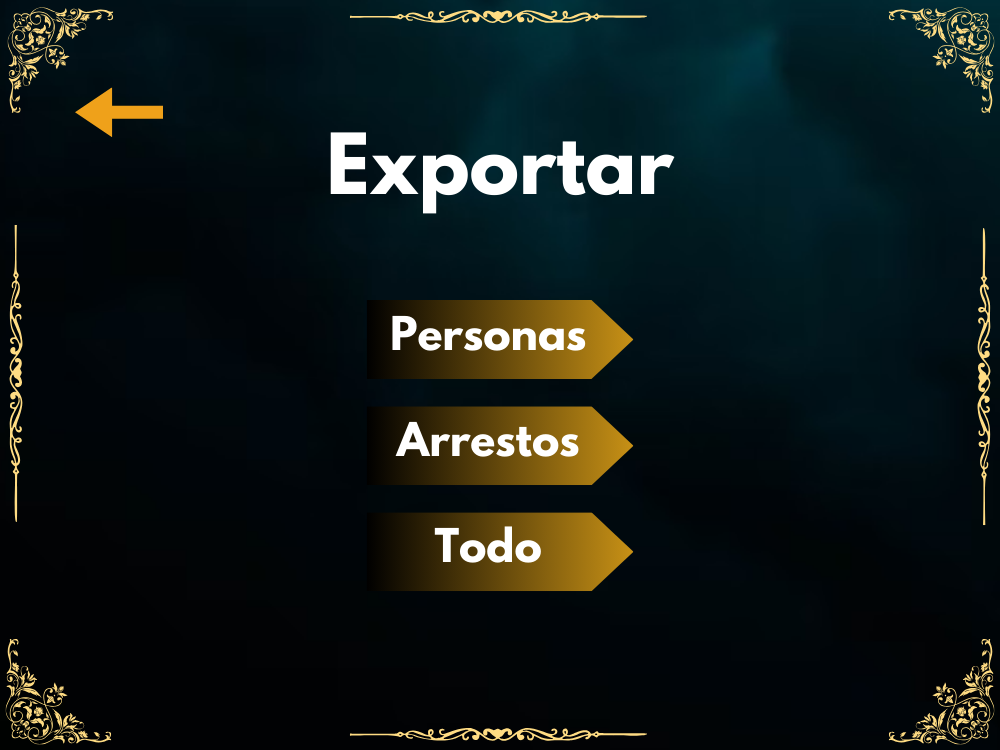
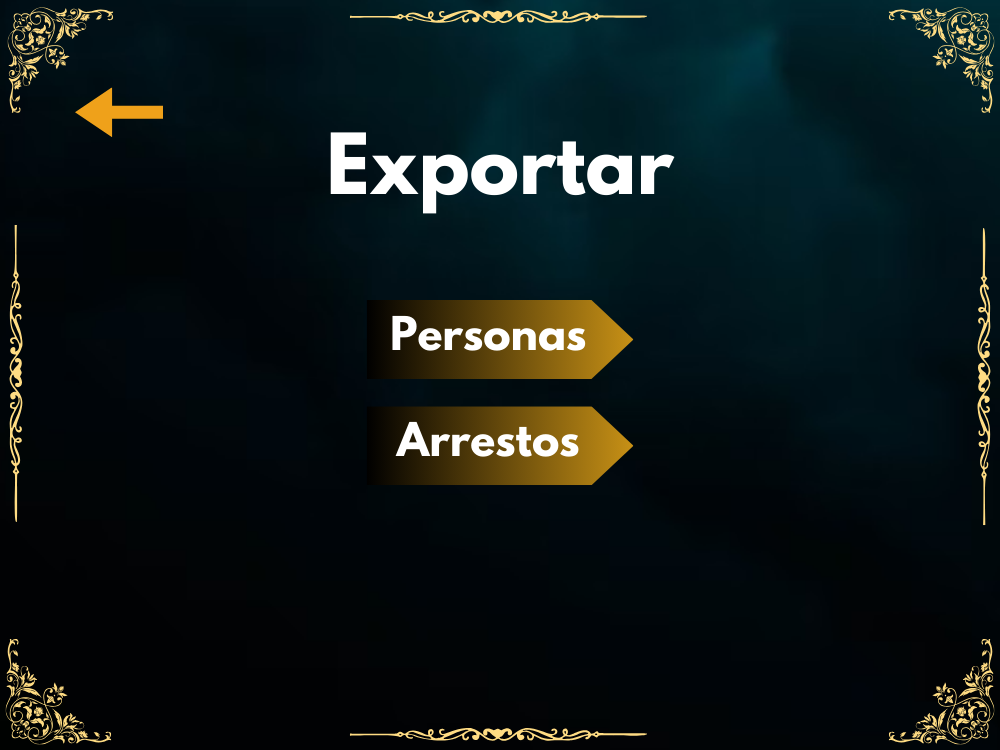
refactor: export todo removed

Changed region(s): [[0.372, 0.6747, 0.651, 0.7973]]

diff --git a/src/pages/exportar.py b/src/pages/exportar.py
@@ -28,7 +28,7 @@ class ExportarDatos(tk.Tk):
         bg_file = './src/img/export.png'
         arrestos_file = './src/img/export_btn/arrestos_btn.png'
         personas_file = './src/img/export_btn/personas_btn.png'
-        todo_file = './src/img/export_btn/todo_btn.png'
+        # todo_file = './src/img/export_btn/todo_btn.png'
         back_file = './src/img/back_button.png'
 
         global icono_grande
@@ -51,8 +51,8 @@ class ExportarDatos(tk.Tk):
         global ButtonArrestos
         ButtonArrestos = tk.PhotoImage(file=arrestos_file)
 
-        global ButtonTodo
-        ButtonTodo = tk.PhotoImage(file=todo_file)
+        # global ButtonTodo
+        # ButtonTodo = tk.PhotoImage(file=todo_file)
 
         self.fondo = tk.Canvas(self, width=1000, height=750)
         self.fondo.create_image(0, 0, image=img, anchor='nw')
@@ -66,9 +66,9 @@ class ExportarDatos(tk.Tk):
             bd=0, image=ButtonArrestos, activebackground='#01060a',command=self.arrestos)
         self.btn_export_arrestos.place(x=366.5, y=406.2, height=79, width=267)
 
-        self.btn_export_todo = tk.Button(
-            bd=0, image=ButtonTodo, activebackground='#01060a')
-        self.btn_export_todo.place(x=366.5, y=512.3, height=79, width=267)
+        # self.btn_export_todo = tk.Button(
+        #     bd=0, image=ButtonTodo, activebackground='#01060a')
+        # self.btn_export_todo.place(x=366.5, y=512.3, height=79, width=267)
 
         self.btn_back = tk.Button(
             bd=0, image=ButtonImg, activebackground='#021118', command=self.back_to_menu)
